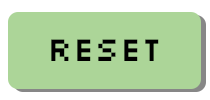
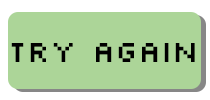
modified reset button in click & drag

Changed region(s): [[0.1429, 0.39, 0.9429, 0.63], [0.0286, 0.42, 0.1143, 0.63]]

diff --git a/isometricgame/core/src/main/java/com/isometricgame/core/clickdrag/Puzzles.java b/isometricgame/core/src/main/java/com/isometricgame/core/clickdrag/Puzzles.java
@@ -18,17 +18,25 @@ import com.badlogic.gdx.scenes.scene2d.utils.DragAndDrop.Payload;
 import com.badlogic.gdx.scenes.scene2d.utils.DragAndDrop.Source;
 import com.badlogic.gdx.scenes.scene2d.utils.DragAndDrop.Target;
 import com.badlogic.gdx.ApplicationListener;
+import com.badlogic.gdx.Input;
+import com.badlogic.gdx.Input.Keys;
 
 
 public class Puzzles implements ApplicationListener {
+	private final int TRYAGAIN_WIDTH = 210;
+	private final int TRYAGAIN_HEIGHT = 100;
+	private final int TRYAGAIN_X = 930;
+	private final int TRYAGAIN_Y = 200;
+
 	private Stage stage;
 	private Image line, addition;
-	private Image reset =  new Image(new Texture("clickanddrag/reset_button.png"));
 	private Texture Qzero = new Texture("clickanddrag/q0.png");
 	private Texture Qone = new Texture("clickanddrag/q1.png");
 	private Texture Azero = new Texture("clickanddrag/0.png");
 	private Texture Aone = new Texture("clickanddrag/1.png");
 	private Texture answer = new Texture("clickanddrag/answer.png");
+	private Texture tryAgain = new Texture("clickanddrag/reset_button.png");
+	private Texture tryAgainActive = new Texture("clickanddrag/reset_button2.png");
 
 	private List<Piece> quesOne = new ArrayList<Piece>();
 	private List<Piece> quesTwo = new ArrayList<Piece>();
@@ -41,18 +49,20 @@ public class Puzzles implements ApplicationListener {
 
 	private String ans = "";
 
+	private SpriteBatch batch;
+
 	@Override
 	public void create () {
 		stage = new Stage();
+		batch = new SpriteBatch();
+
 		Gdx.input.setInputProcessor(stage);
 		
 		setQuestionImages();
 		setTargetImages();
 		setSourceImages();
 
-		ans = "";
-		setReset();
-		
+		ans = "";	
 	}
 
 	@Override
@@ -63,6 +73,24 @@ public class Puzzles implements ApplicationListener {
 	public void render () {
 		stage.act(Gdx.graphics.getDeltaTime());
 		stage.draw();
+
+		int x = Gdx.input.getX();
+        int y = Gdx.graphics.getHeight() - Gdx.input.getY();
+
+		batch.begin();
+		if (mouseHovering(x, y)) {
+            batch.draw(tryAgainActive, TRYAGAIN_X, TRYAGAIN_Y, TRYAGAIN_WIDTH, TRYAGAIN_HEIGHT);
+            if (Gdx.input.isButtonPressed(Input.Buttons.LEFT)) {                
+                for(Piece p: puzzles) {
+					p.removeFromTarget();
+				}
+				setSourceImages();
+				targetAnswer = new String[5];
+            }
+        } else {
+            batch.draw(tryAgain, TRYAGAIN_X, TRYAGAIN_Y, TRYAGAIN_WIDTH, TRYAGAIN_HEIGHT);
+        }
+		batch.end();
 	}
 
 	@Override
@@ -213,27 +241,13 @@ public class Puzzles implements ApplicationListener {
 		return -1;
 	}
 
-	public void setReset() {
-		reset.setBounds(930, 200, 210, 100);
-		stage.addActor(reset);
-
-		reset.addListener(new ClickListener(){
-			@Override
-			public void clicked(InputEvent event, float x, float y) {
-				for(Piece p: puzzles) {
-					p.removeFromTarget();
-				}
-				setSourceImages();
-				targetAnswer = new String[5];
-				// /**/System.out.println("reset: " + String.join(",", targetAnswer));	
-
-			}
-		});
-	}
-
-	public void clearStage() {
-		stage.clear();
-	}
-	
+	private boolean mouseHovering(int x, int y) {
+		if(x > TRYAGAIN_X && 
+		   x < TRYAGAIN_X + TRYAGAIN_WIDTH &&
+		   y > TRYAGAIN_Y &&
+		   y < TRYAGAIN_Y + TRYAGAIN_HEIGHT) {
+			return true;
+		} else {return false;}
+    }
 }
 
